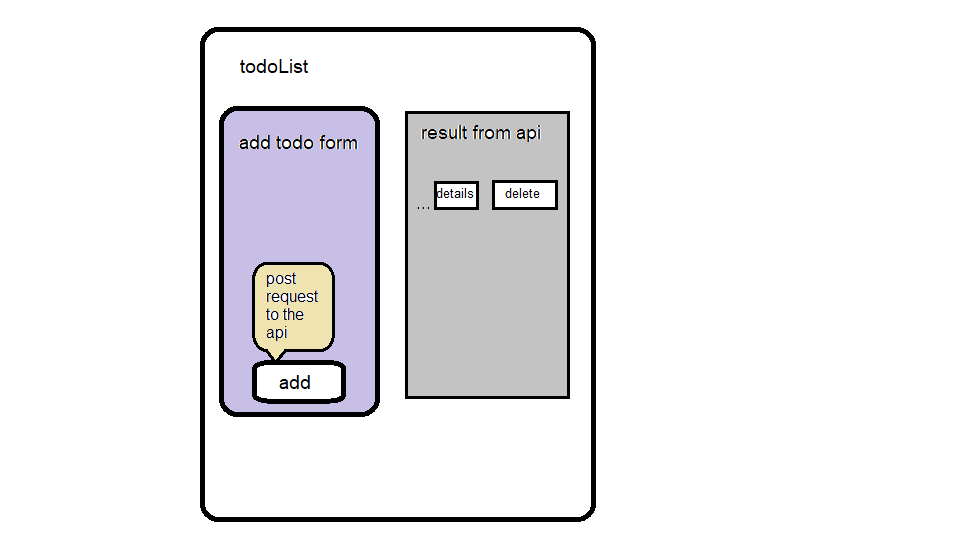
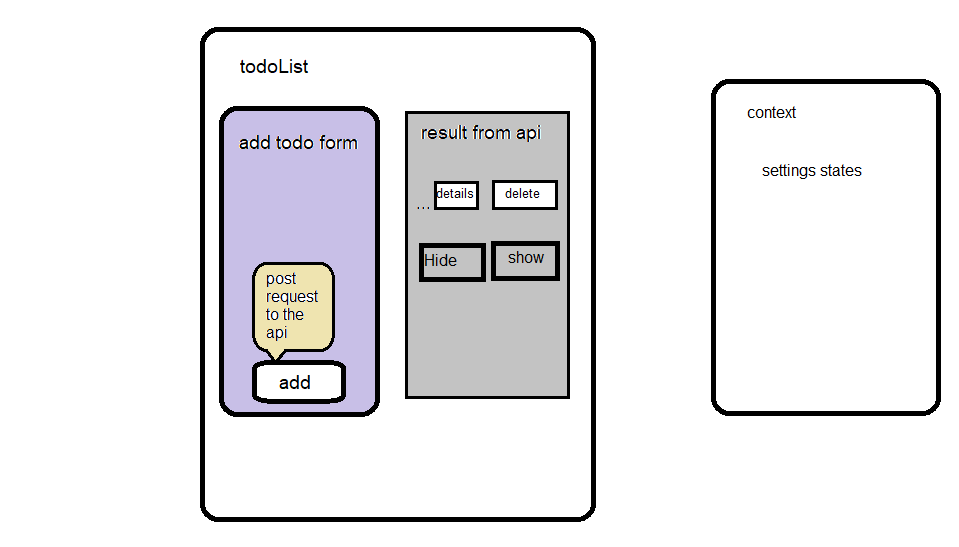
add context setings

diff --git a/src/components/todo/todo-connected.js b/src/components/todo/todo-connected.js
@@ -1,37 +1,35 @@
 /* eslint-disable no-undefined */
-import React, { useState, useEffect } from 'react';
+import React, { useState, useEffect,useContext } from 'react';
 import { When } from '../if';
 import Modal from '../modal';
 import useForm from '../hooks/form.js';
+import Header from '../header/header.js';
+import Footer from '../footer/footer.js';
+import {SettingsContext} from '../context/setting.js';
 
 import './todo.scss';
-
 const todoAPI = 'https://api-js401.herokuapp.com/api/v1/todo';
 
+
 const Todo2 = (props) =>{
+  const context = useContext(SettingsContext);
 
   const addItem = () => {
-
-    // e.preventDefault();
-    // e.target.reset();
-
-    const _updateState = newItem =>
-      setTodoList([...todoList, newItem]);
-
+    const _updateState = newItem =>{
+      console.log('newItem : ', newItem);
+      return  setTodoList([...todoList, newItem]);};
     callAPI( todoAPI, 'POST', values, _updateState );
 
   };
 
   // from form hook
   const [handleSubmit, handleInput, handleChange, values] = useForm(addItem);
-
+  //
   const [todoList,setTodoList] = useState([]);
-  // const [item,setItem] = useState({});
   const [showDetails,setShowDetails] = useState(false);
   const [details,setDetails] = useState({});
 
   const callAPI = (url, method = 'get', body, handler, errorHandler) => {
-
     return fetch(url, {
       method: method,
       mode: 'cors',
@@ -43,8 +41,6 @@ const Todo2 = (props) =>{
       .then(data => typeof handler === 'function' ? handler(data) : null )
       .catch( (e) => typeof errorHandler === 'function' ? errorHandler(e) : console.error(e)  );
   };
-
-
 
   const deleteItem = id => {
 
@@ -62,10 +58,7 @@ const Todo2 = (props) =>{
       setTodoList(todoList.map(values =>
         values._id === newItem._id ? newItem : values,
       ));
-
-
-
-    callAPI( `${todoAPI}/${updatedItem.id}`, 'PUT', updatedItem, _updateState );
+    callAPI( `${todoAPI}/${updatedItem._id}`, 'PUT', updatedItem, _updateState );
 
   };
 
@@ -93,17 +86,18 @@ const Todo2 = (props) =>{
 
   useEffect(() => {
     getTodoItems();
-  });
+  },[]);
+
+  const hide = () =>{
+    context.changeDisplay(false);
+  };
+  const show = () =>{
+    context.changeDisplay(true);
+  };
 
   return (
     <>
-      <header>
-        <h2>
-            There are
-          {todoList.filter( values => !values.complete ).length}
-            Items To Complete
-        </h2>
-      </header>
+      <Header todoList={todoList}/>
 
       <section className="todo">
 
@@ -138,7 +132,7 @@ const Todo2 = (props) =>{
           <ul>
             { todoList.map(values => (
               <li
-                className={`complete-${values.complete.toString()}`}
+                className={`complete-${values.complete.toString()}-${context.display}`}
                 key={values._id}
               >
                 <span onClick={() => toggleComplete(values._id)}>
@@ -153,6 +147,9 @@ const Todo2 = (props) =>{
               </li>
             ))}
           </ul>
+          <button onClick={hide}>Hide completed</button>
+          <button onClick={show}>Show completed</button>
+
         </div>
       </section>
 
@@ -169,6 +166,8 @@ const Todo2 = (props) =>{
           </div>
         </Modal>
       </When>
+
+      <Footer/>
     </>
   );
 };

diff --git a/src/components/todo/todo.scss b/src/components/todo/todo.scss
@@ -58,15 +58,19 @@ body, html {
             font-size: .75em;
             margin: .75em .5em;
 
-            &.complete-true {
-              span {
-                background: pink;
-                text-decoration:line-through;
-                &:hover {
-                   background: seagreen;
+            &.complete-true-false {
+                display: none;
+           
+            }
+            &.complete-true-true {
+                span {
+                  background: pink;
+                  text-decoration:line-through;
+                  &:hover {
+                     background: seagreen;
+                  }
                 }
               }
-            }
 
             span {
                 background: #e0e0e0;

diff --git a/src/components/context/setting.js b/src/components/context/setting.js
@@ -1,0 +1,21 @@
+import React, {useState} from 'react';
+
+export const SettingsContext = React.createContext();
+
+function SettingProvider(props) {
+  const [display, setDisplay] = useState(true);
+  const [itemsNum, setItemsNum] = useState(0);
+  const state = {
+    display,
+    itemsNum,
+    changeDisplay:setDisplay,
+    changeTwitter:setItemsNum,
+  };
+  return(
+    <SettingsContext.Provider value={state}>
+      {props.children}
+    </SettingsContext.Provider>
+  );
+}
+
+export default SettingProvider;

diff --git a/src/app.js b/src/app.js
@@ -5,13 +5,16 @@ import React from 'react';
 
 // API Connected (Live Data)
 import ToDo from './components/todo/todo-connected.js';
+import SettingsProvider from './components/context/setting.js';
 
 export default class App extends React.Component {
   render() {
     return (
-      <div>
-        <ToDo />
-      </div>
+      <SettingsProvider>
+        <div>
+          <ToDo />
+        </div>
+      </SettingsProvider>
     );
   }
 }

diff --git a/README.md b/README.md
@@ -1,6 +1,6 @@
 # LAB - Class 32
 
-## Custom Hooks
+## Context API
 
 ### Author: obada al-quran
 
